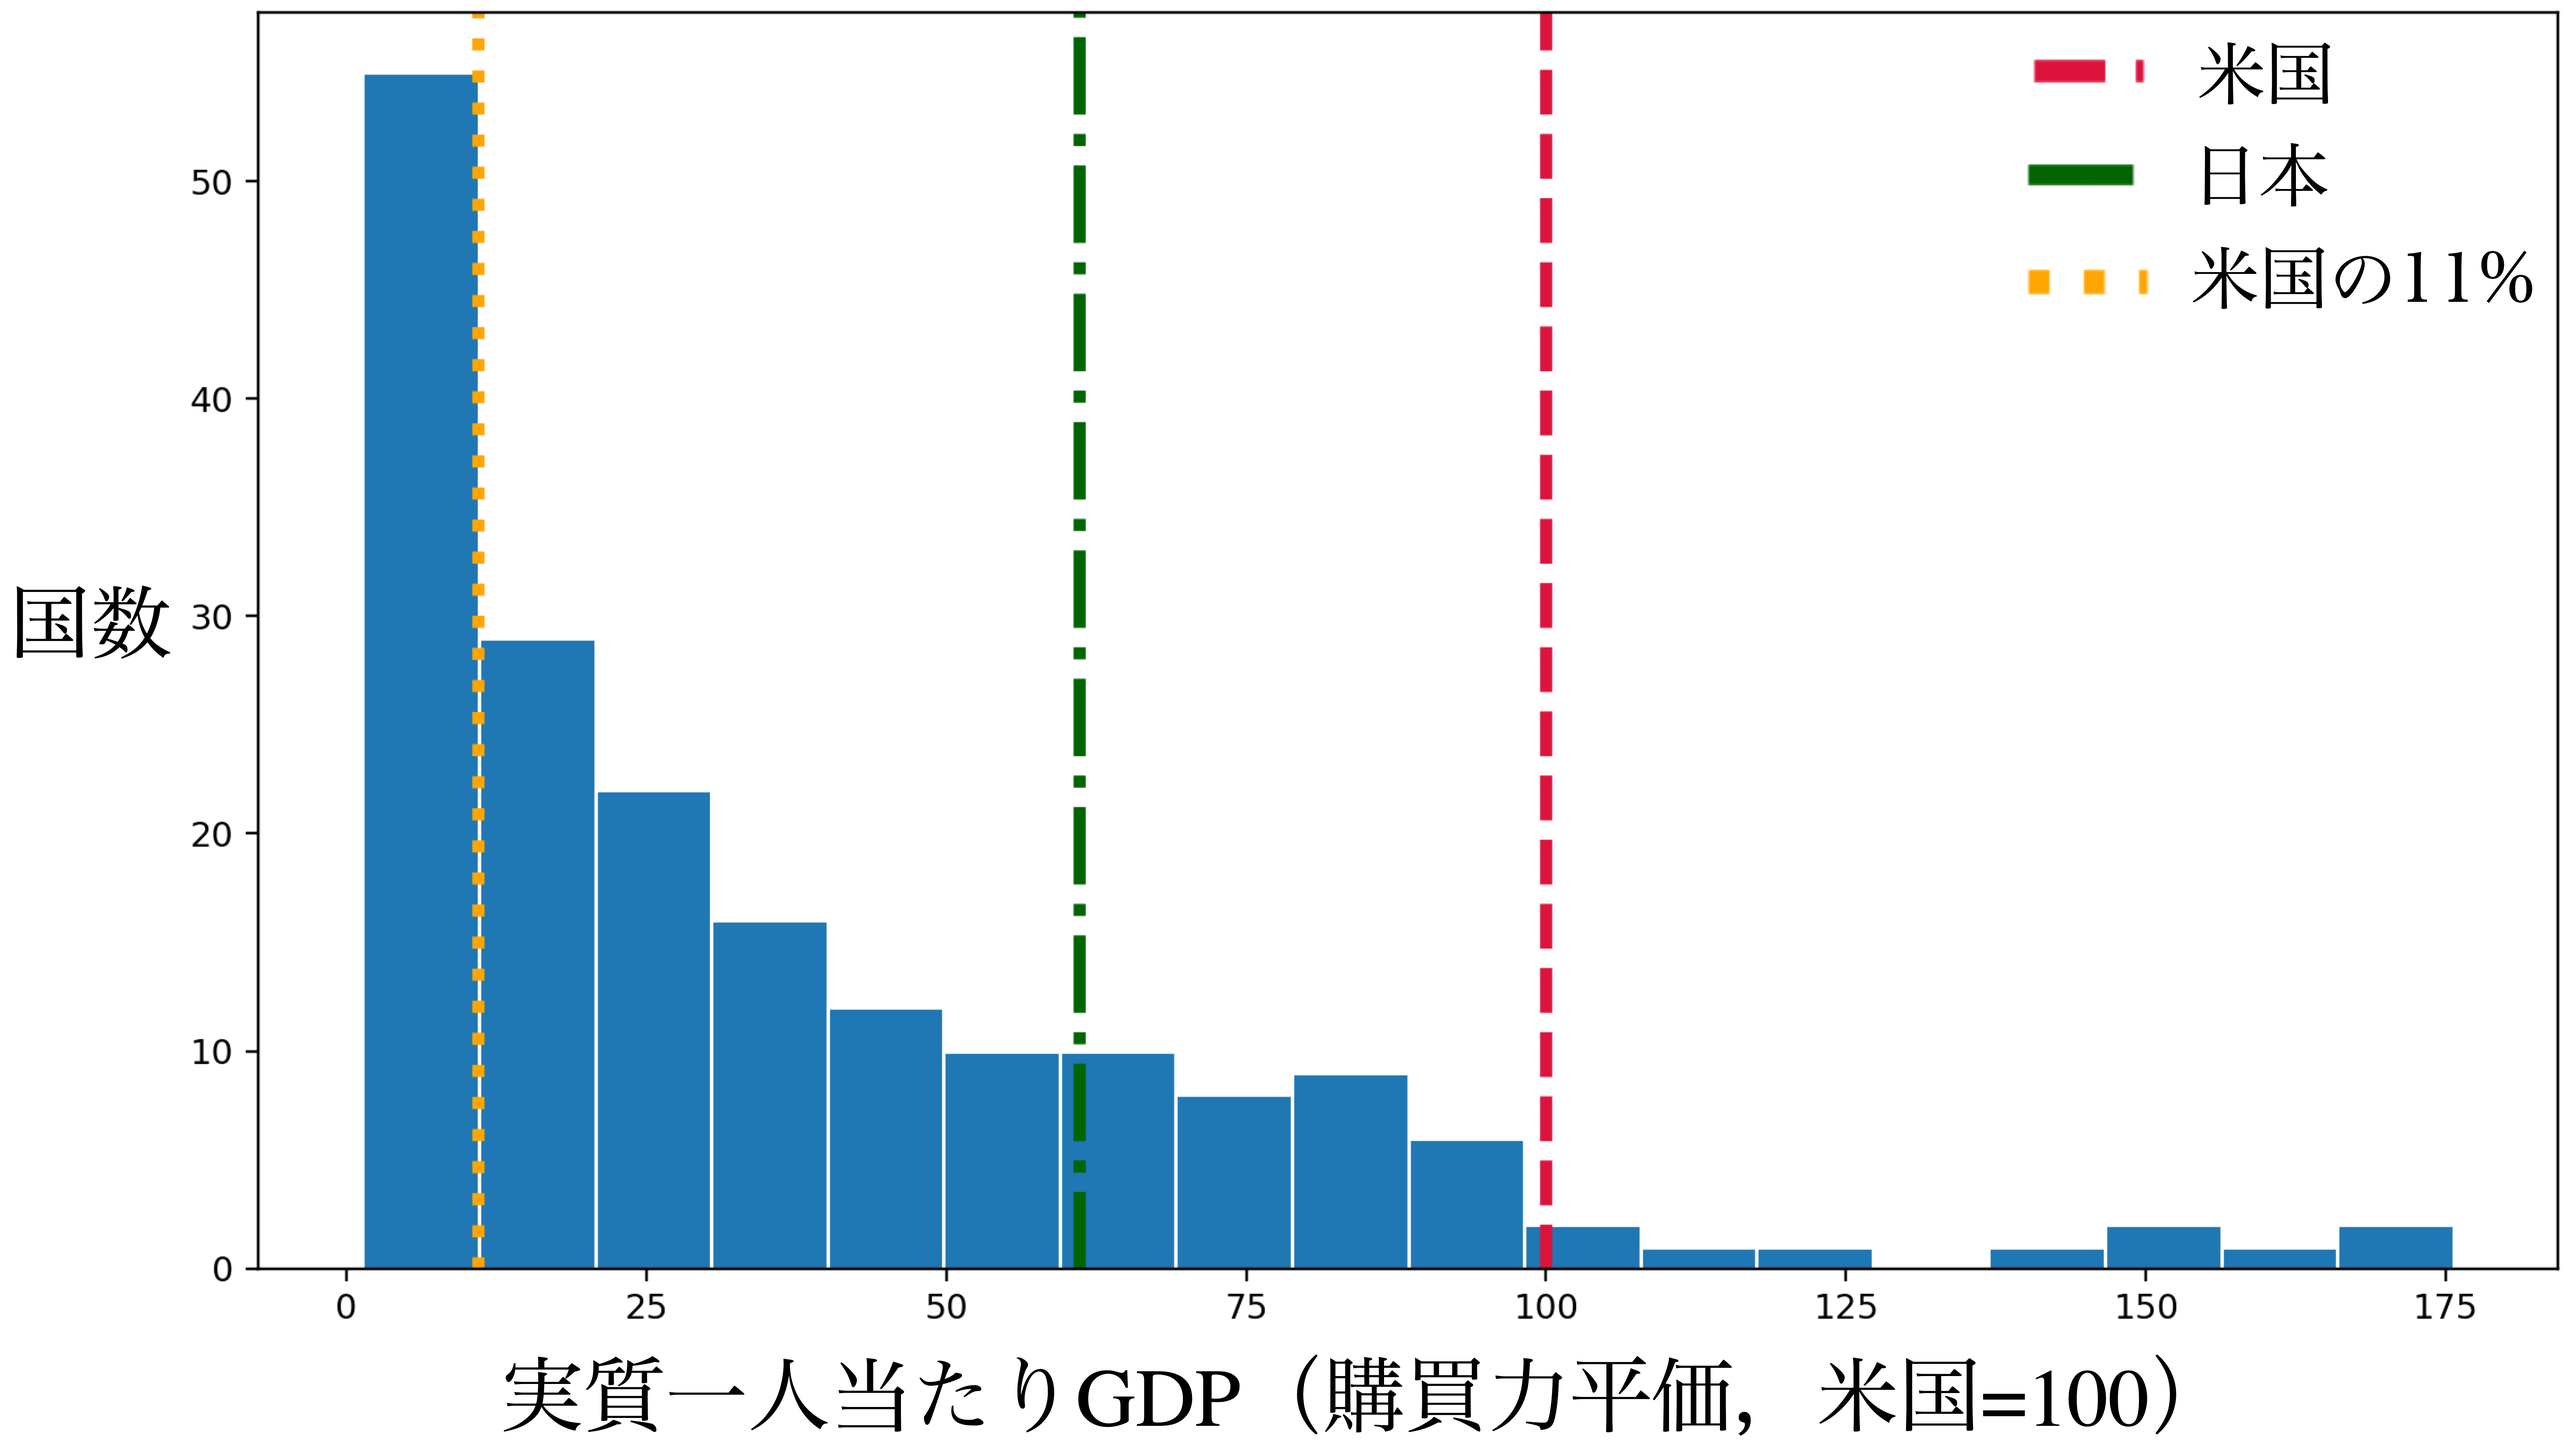
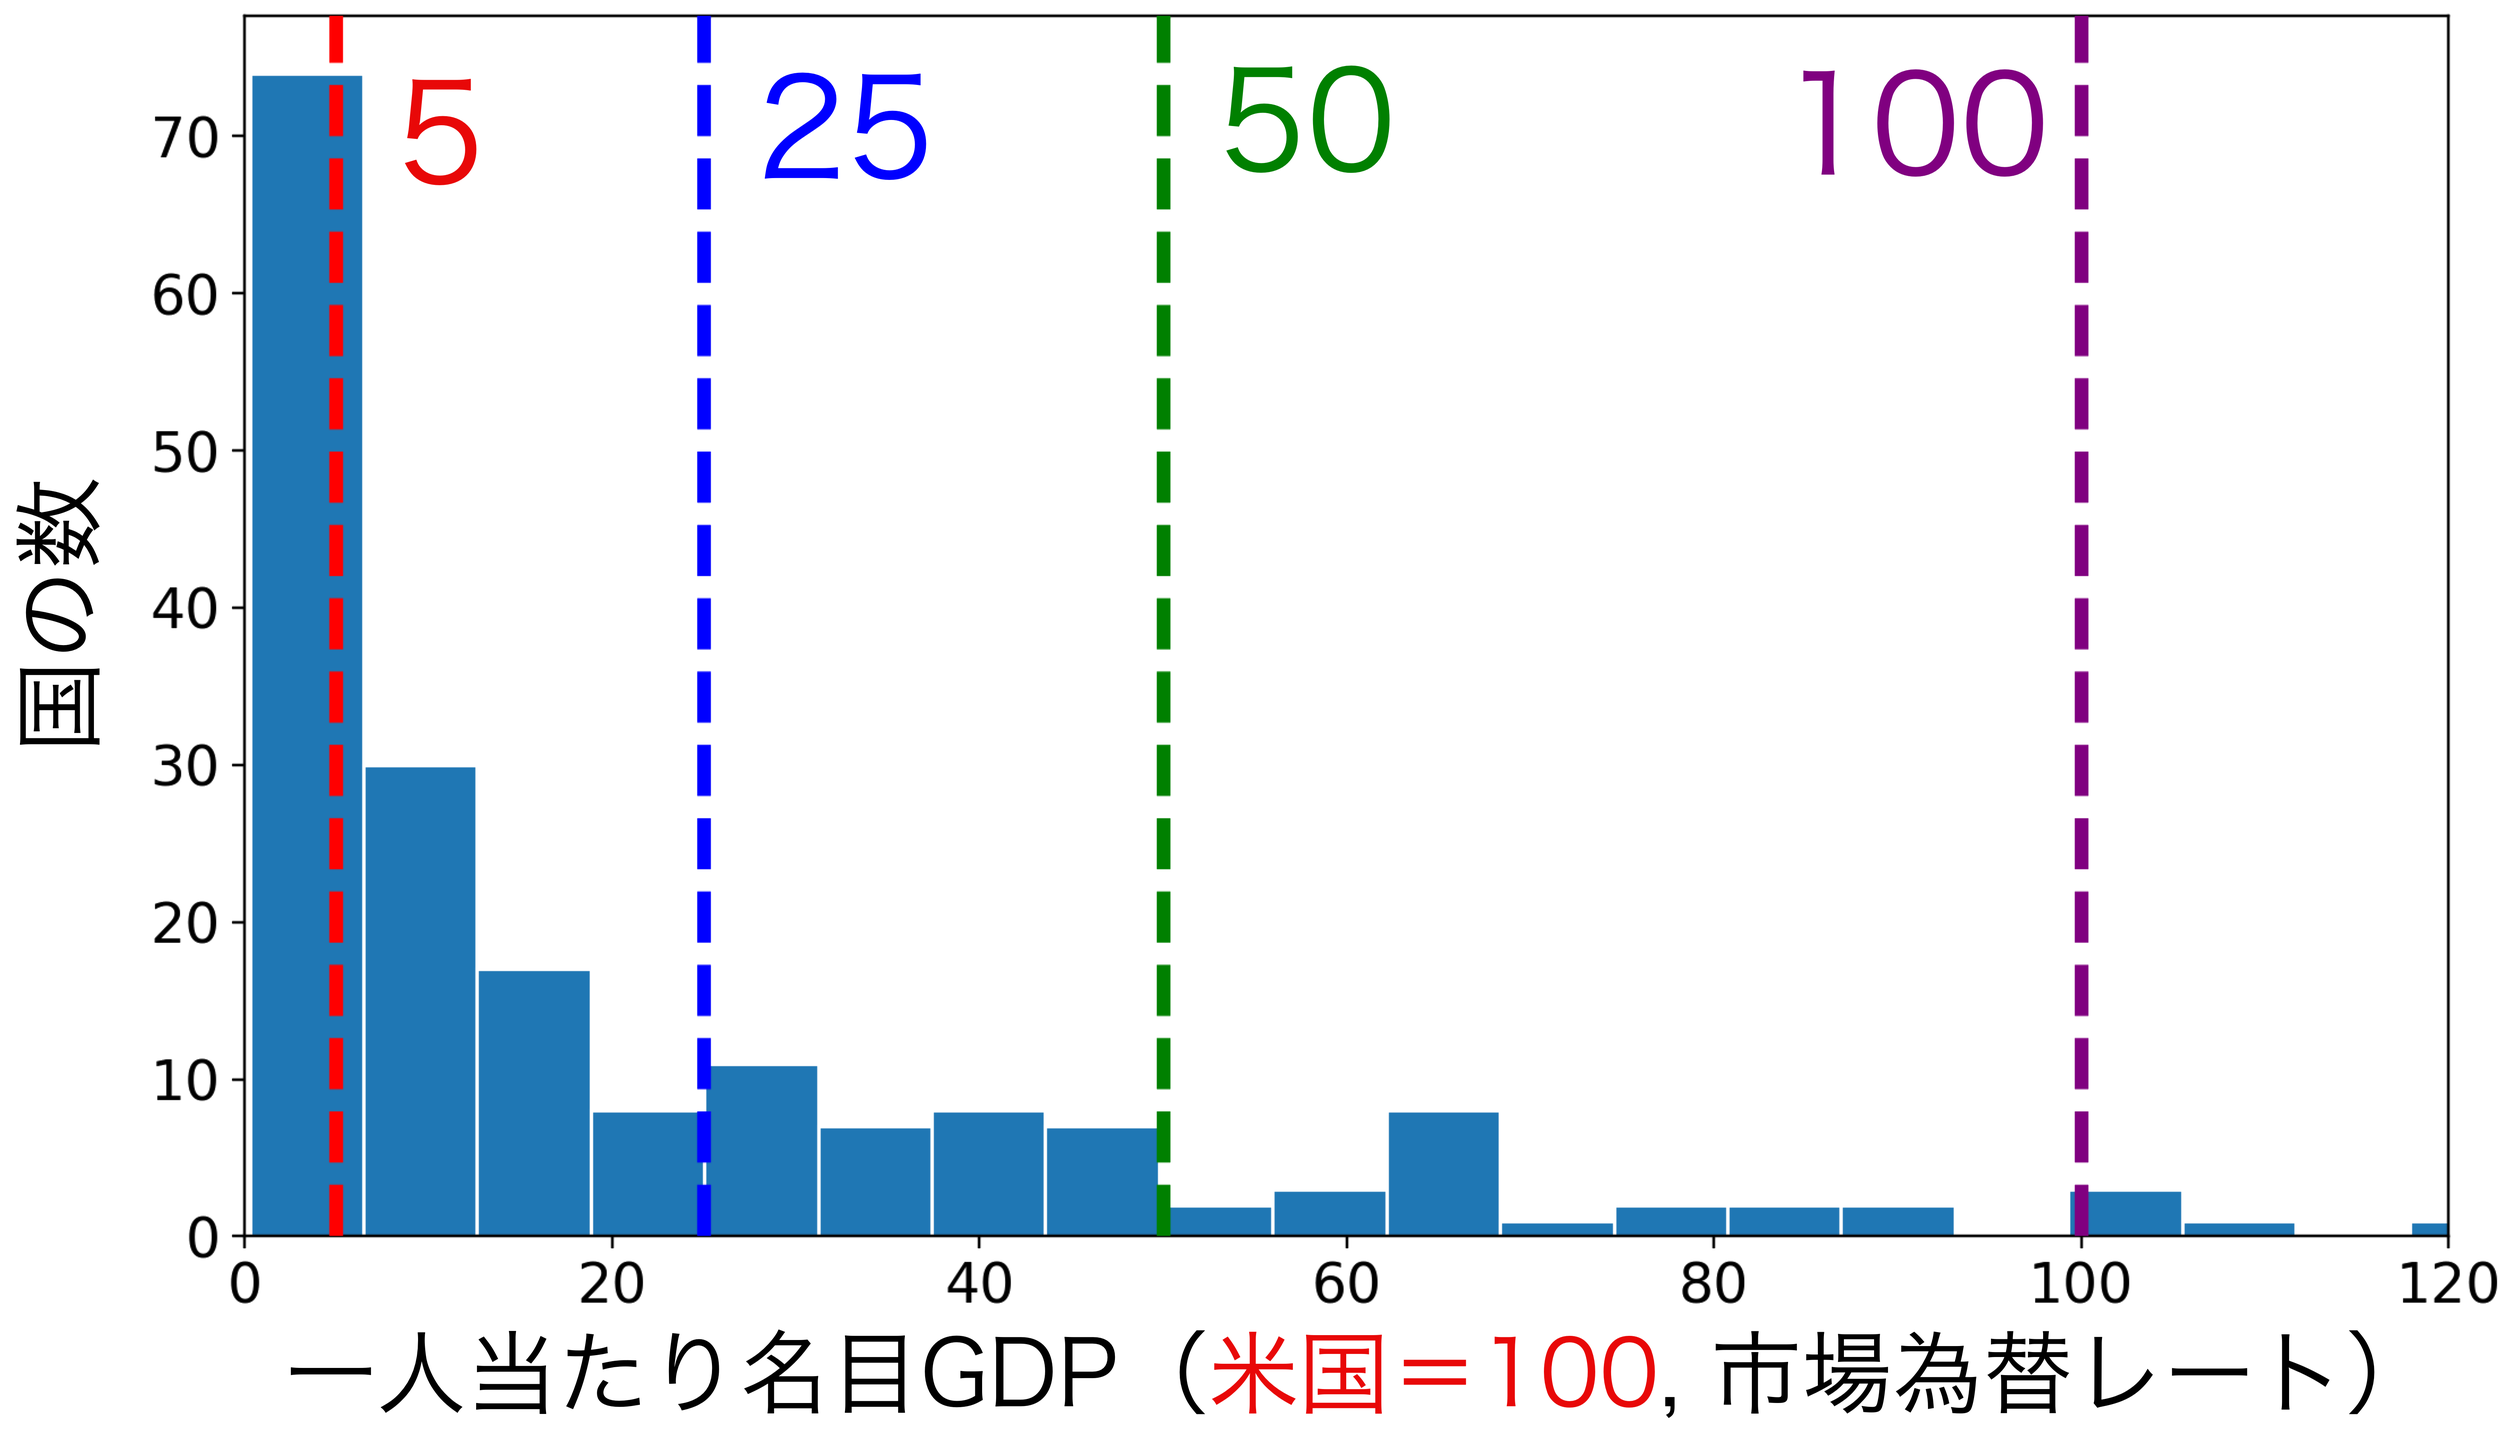
final version

diff --git a/docs/slides.html b/docs/slides.html
@@ -129,7 +129,7 @@
 
 <section id="title-slide" class="quarto-title-block center">
   <h1 class="title">シュンペーター的経済成長と見かけの大木仮説</h1>
-  <p class="subtitle"><br> 最終講義</p>
+  <p class="subtitle"><br> 最終講義, RoMacS</p>
 
 <div class="quarto-title-authors">
 <div class="quarto-title-author">
@@ -163,7 +163,6 @@
 <ol type="1">
 <li>シュンペーター的経済成長</li>
 <li>見かけの大木仮説</li>
-<li>政策</li>
 <li>結論 <!--- }}} ---></li>
 </ol>
 </section>
@@ -376,10 +375,10 @@ Philippe Aghion and Peter Howitt, 1992, <em>Econometrica</em>
 <li>カルテル <span class="math inline">\(\Rightarrow\)</span> 厚生の損失 <!-- }}} --></li>
 </ul></li>
 </ul>
-<!-- 187カ国（2024年）：一人当たりGDPのヒストグラム ---------------------------{{{ -->
+<!-- 191カ国（2024年）：一人当たり名目GDP ---------------------------{{{ -->
 </section>
-<section id="カ国2024年一人当たりgdp" class="slide level2">
-<h2>187カ国（2024年）：一人当たりGDP</h2>
+<section id="カ国2024年一人当たり名目gdp" class="slide level2">
+<h2>191カ国（2024年）：一人当たり名目GDP</h2>
 <div class="quarto-figure quarto-figure-center">
 <figure>
 <p><img data-src="images/gdp_histogram.png" style="width:100.0%"></p>
@@ -1077,6 +1076,28 @@ Aさん死亡
           display:block!important;
       }</style></aside>
 <!-- }}} -->
+<!-- 政府の参入促進政策は？ ---------------------------{{{ -->
+</section>
+<section id="スタートアップ政策は" class="slide level2 small-body-2">
+<h2>スタートアップ政策は？</h2>
+<ul>
+<li>2021年度開始の<strong><span class="green">Small/Startup Business Innovation Research</span></strong><br>
+制度のスタートアップ補助政策
+<ul>
+<li>2024年度までの1700億円の内、採択の<strong><span class="red">２割が大企業</span></strong></li>
+<li>総務省「スタートアップ支援を目的としておらず、対象も限定していない」（日経2025.12.15）</li>
+<li>官僚 <span class="math inline">\(\leftrightarrow\)</span> 財界コネクション？</li>
+</ul></li>
+<li>スタートアップ育成５か年計画（2022〜2027年度）
+<ul>
+<li>約1兆円規模の補助金を呼び水 → 2027年度 <span class="red">に</span>民間投資 <strong><span class="red">10兆円</span></strong>目標</li>
+<li>{2022年：約9,459億円}、{2023年：約8,039億円}、<br>
+{2024年：約8,748億円}、{2025年上半期：3,399億円}<br>
+</li>
+<li>目標達成<br>
+2年以内に現状の<strong><span class="red">10倍以上</span></strong>の民間投資額が必要 <!-- }}} --></li>
+</ul></li>
+</ul>
 <!-- 鉄のトライアングルが機能しない理由 ---------------------------{{{ -->
 </section>
 <section id="鉄のトライアングルが機能しない理由" class="slide level2 small-body-2">
@@ -1122,32 +1143,6 @@ Aさん死亡
 <li>鉄のトライアングルが仇となった</li>
 <li>外部ショック <span class="math inline">\(\Rightarrow\)</span> 大木の内部の適応力の欠如が顕在化<br>
 <span class="math inline">\(\Rightarrow\)</span> <span class="highlight-red"> 見かけの大木 </span> が露呈 <!-- }}} --></li>
-</ul></li>
-</ul>
-</section></section>
-<section>
-<section id="政策" class="title-slide slide level1 center">
-<h1>政策</h1>
-<!-- 政府の参入促進政策は？ ---------------------------{{{ -->
-</section>
-<section id="スタートアップ政策は" class="slide level2 small-body-2">
-<h2>スタートアップ政策は？</h2>
-<ul>
-<li>2021年度開始の<strong><span class="green">Small/Startup Business Innovation Research</span></strong><br>
-制度のスタートアップ補助政策
-<ul>
-<li>2024年度までの1700億円の内、採択の<strong><span class="red">２割が大企業</span></strong></li>
-<li>総務省「スタートアップ支援を目的としておらず、対象も限定していない」（日経2025.12.15）</li>
-<li>官僚 <span class="math inline">\(\leftrightarrow\)</span> 財界コネクション？</li>
-</ul></li>
-<li>スタートアップ育成５か年計画（2022〜2027年度）
-<ul>
-<li>約1兆円規模の補助金を呼び水 → 2027年度 <span class="red">に</span>民間投資 <strong><span class="red">10兆円</span></strong>目標</li>
-<li>{2022年：約9,459億円}、{2023年：約8,039億円}、<br>
-{2024年：約8,748億円}、{2025年上半期：3,399億円}<br>
-</li>
-<li>目標達成<br>
-2年以内に現状の<strong><span class="red">10倍以上</span></strong>の民間投資額が必要 <!-- }}} --></li>
 </ul></li>
 </ul>
 </section></section>
